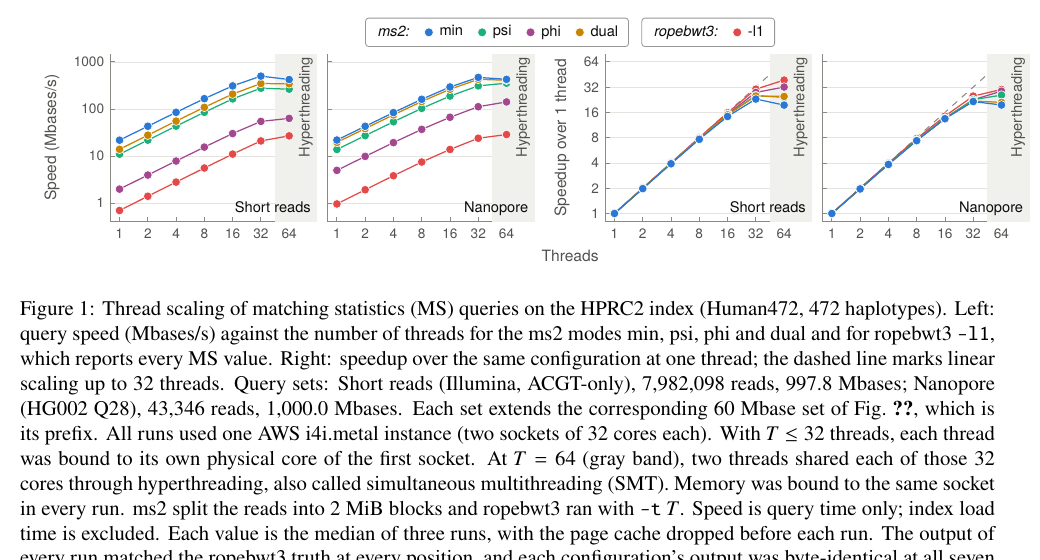
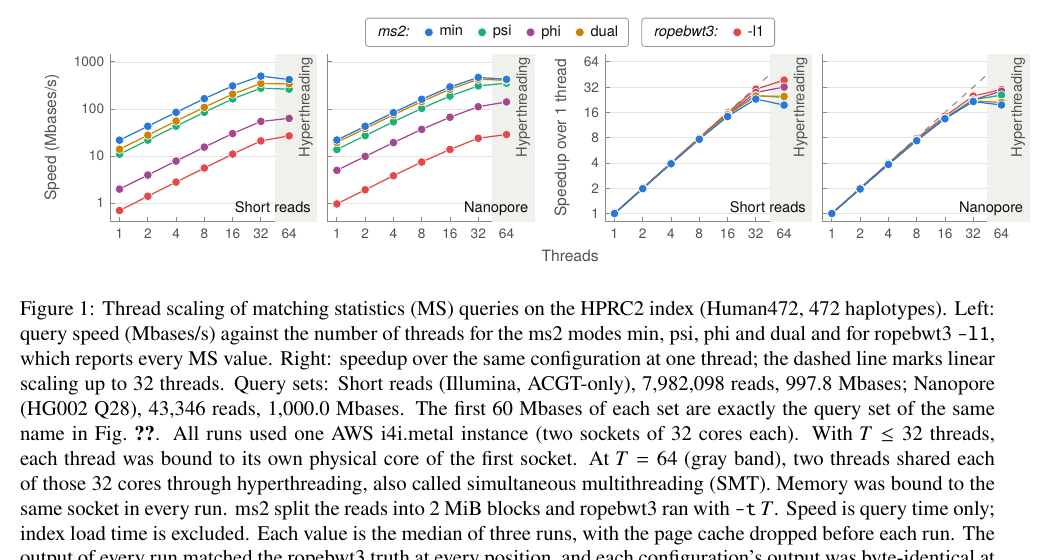
Reword the read-set prefix sentence in the thread-scaling caption

Changed region(s): [[0.0, 0.6982, 0.9538, 1.0]]

diff --git a/figures/tex/fig-threads-caption.tex b/figures/tex/fig-threads-caption.tex
@@ -5,8 +5,8 @@ haplotypes). Left: query speed (Mbases/s) against the number of threads for the 
 phi and dual and for ropebwt3 \texttt{-l1}, which reports every MS value. Right: speedup over the
 same configuration at one thread; the dashed line marks linear scaling up to 32 threads. Query
 sets: Short reads (Illumina, ACGT-only), 7,982,098 reads, 997.8 Mbases; Nanopore (HG002 Q28),
-43,346 reads, 1,000.0 Mbases. Each set extends the corresponding 60 Mbase set of
-Fig.~\ref{fig:ms}, which is its prefix. All runs used one AWS i4i.metal instance (two sockets of
+43,346 reads, 1,000.0 Mbases. The first 60 Mbases of each set are exactly the
+query set of the same name in Fig.~\ref{fig:ms}. All runs used one AWS i4i.metal instance (two sockets of
 32 cores each). With $T \le 32$ threads, each thread was bound to its own physical core of the
 first socket. At $T = 64$ (gray band), two threads shared each of those 32 cores through
 hyperthreading, also called simultaneous multithreading (SMT). Memory was bound to the same
